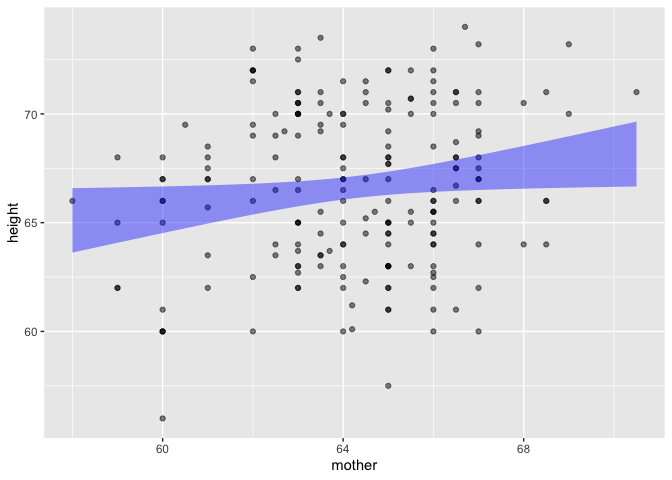
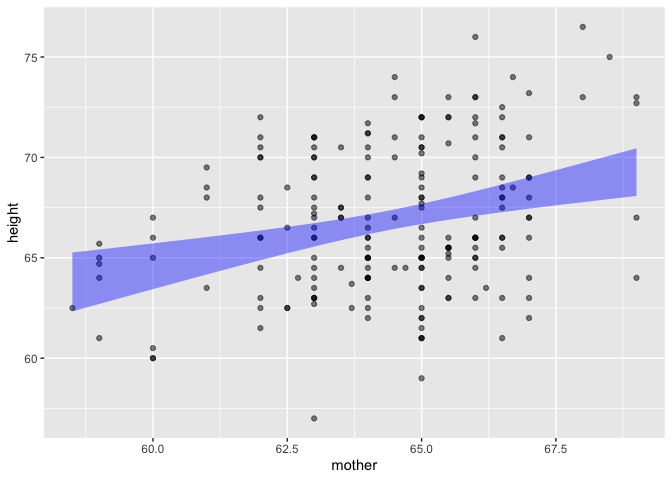
fixed order of colors in model annots in point_plot(). The problem was in get_typical()

diff --git a/README.md b/README.md
@@ -12,7 +12,7 @@ Thinking*](https://dtkaplan.github.io/Lessons-in-statistical-thinking/).
 
 ## Installation
 
-Version 0.6 of `{LSTbook}` was released on CRAN by February 2024. Note
+Version 0.6 of `{LSTbook}` was released on CRAN in December 2024. Note
 that previous versions did not include the `take_sample()` function,
 which is used extensively in *Lessons*. The CRAN version is also
 published for use with webr (as are most CRAN packages).

diff --git a/NEWS.md b/NEWS.md
@@ -41,3 +41,8 @@ Updated CRAN release
 * A new argument to point_plot(), ncategorical=, controls how many levels will be shown for model annotations for color & faceting 
 variables.
 
+# LSTbook 0.6.1
+
+* New version number so that r-universe.dev will pick up the package.
+
+* Fixed order of colors for model values in `point_plot()`.
